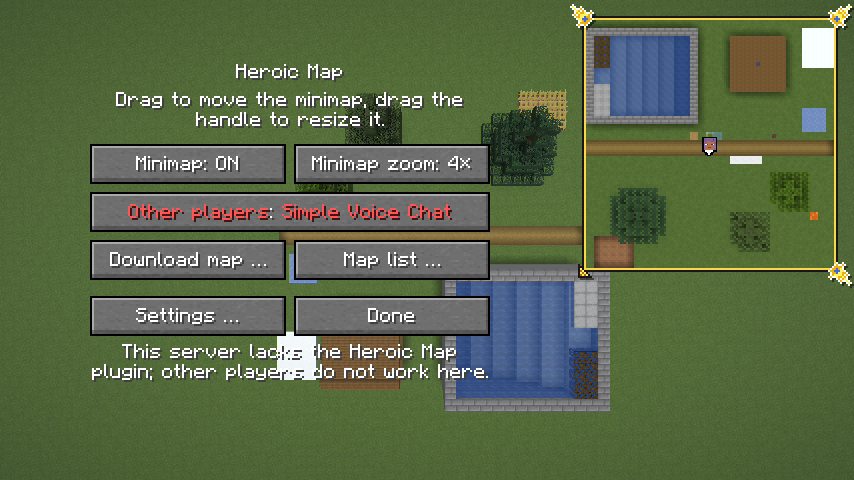
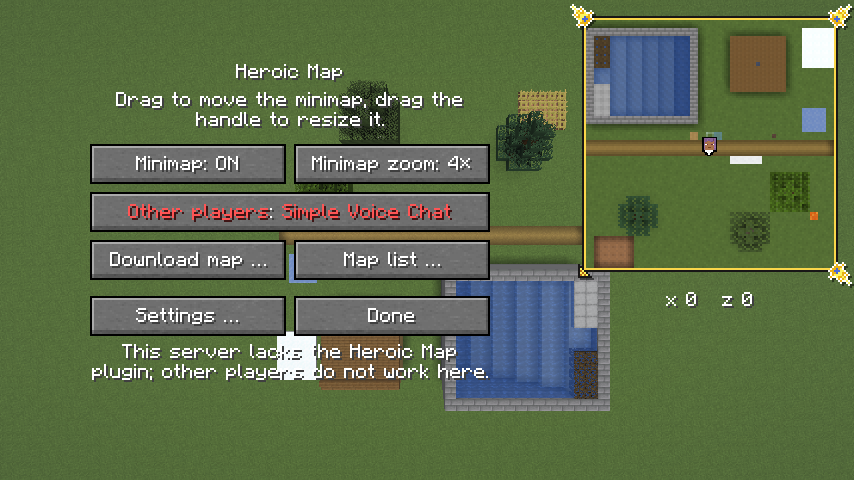
Doku: Bilder der Menüs mit den Koordinaten
Aus dem Gametest Bilder auf main (cd3fb3d), Fenster 2: Untermenü mit dem
Knopf Koordinaten, Menüs mit der Zeile unter der Minimap.

diff --git a/docs/minimap.md b/docs/minimap.md
@@ -38,7 +38,7 @@ steht unter „Kosten“.
 
 `/hmap` öffnet das Menü (`Einstellungen`):
 
-![Das Menü über der Szene des Gametests, die Minimap rund; im Einzelspieler ohne Plugin steht „Mitspieler“ rot](bilder/menue.png)
+![Das Menü über der Szene des Gametests, die Minimap rund mit den Koordinaten darunter; im Einzelspieler ohne Plugin steht „Mitspieler“ rot](bilder/menue.png)
 
 | Einstellung | Vorgabe | tut |
 |---|---|---|
@@ -52,7 +52,7 @@ steht unter „Kosten“.
 Das Untermenü „Einstellungen …“ hält, was man selten ändert; das Hauptmenü
 bleibt so kurz. „Fertig“ führt zurück ins Menü:
 
-![Das Untermenü über der Szene des Gametests, die Minimap rund mit Chunklinien](bilder/anzeige.png)
+![Das Untermenü über der Szene des Gametests, die Minimap rund mit Chunklinien und den Koordinaten darunter; unten „Koordinaten“ neben „Ebenen …“](bilder/anzeige.png)
 
 | Einstellung | Vorgabe | tut |
 |---|---|---|
